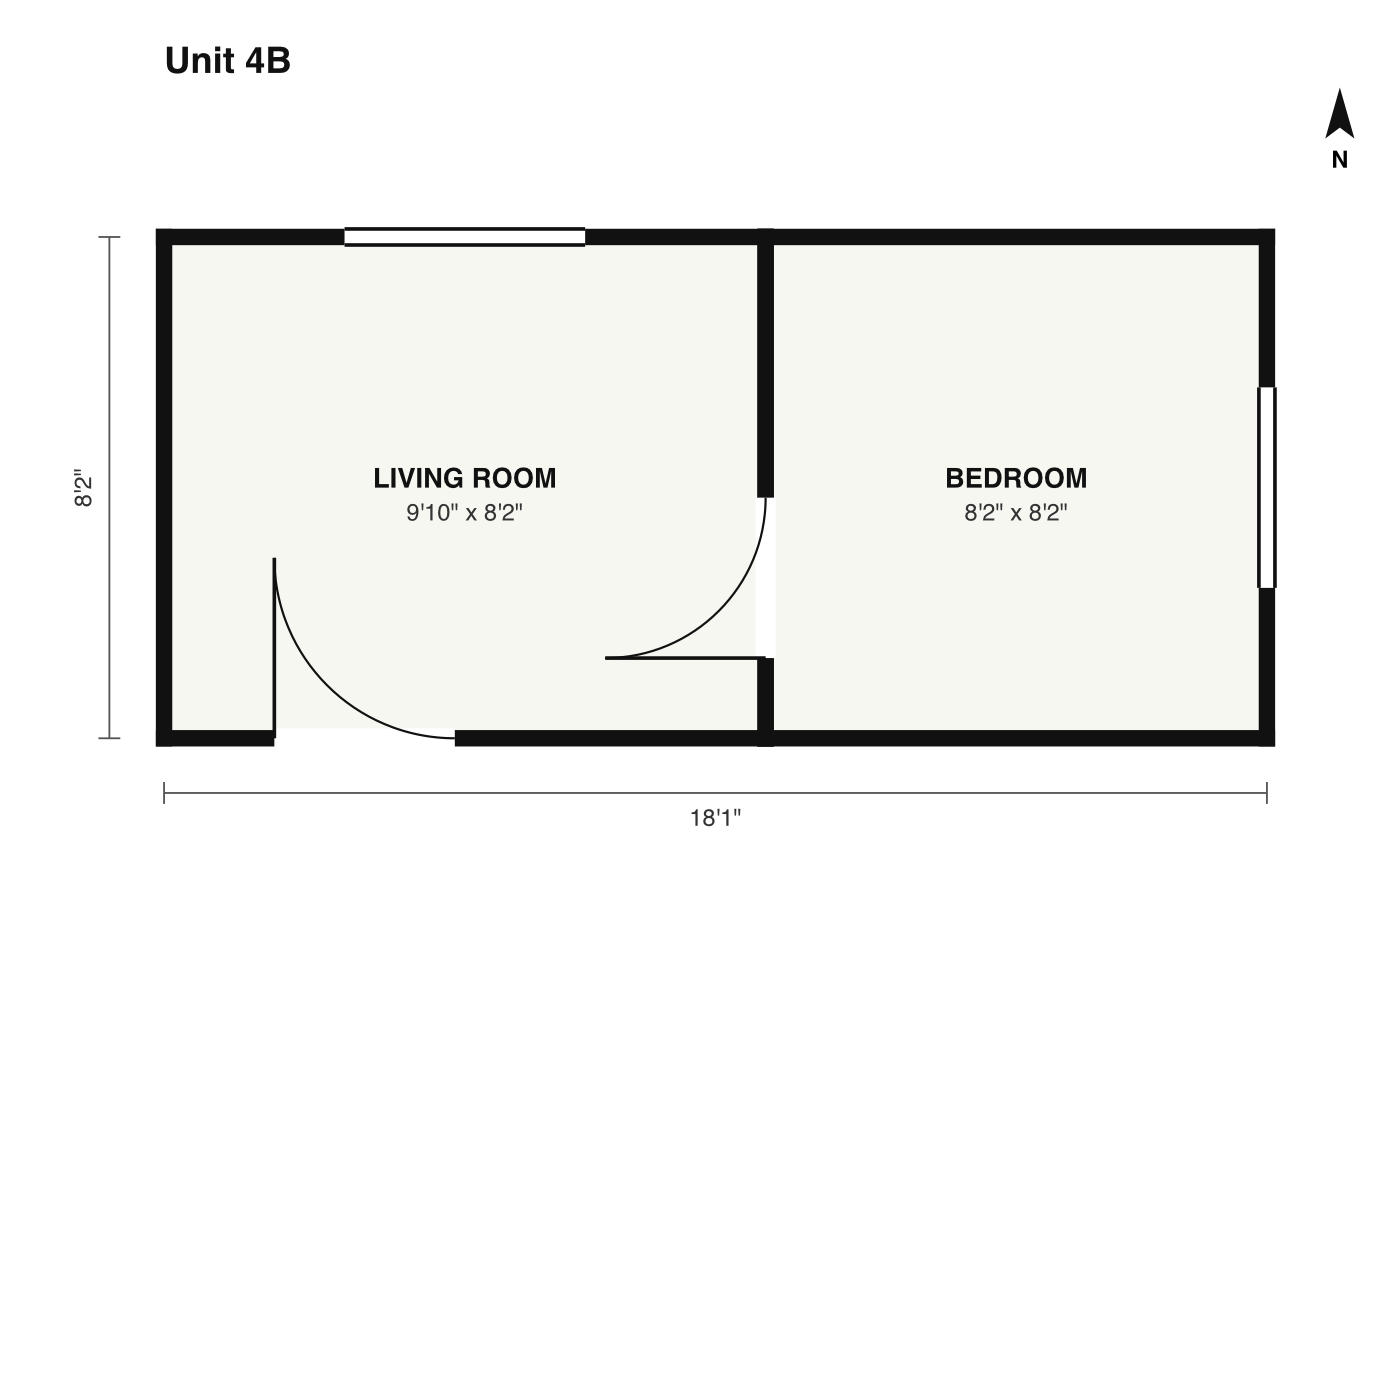
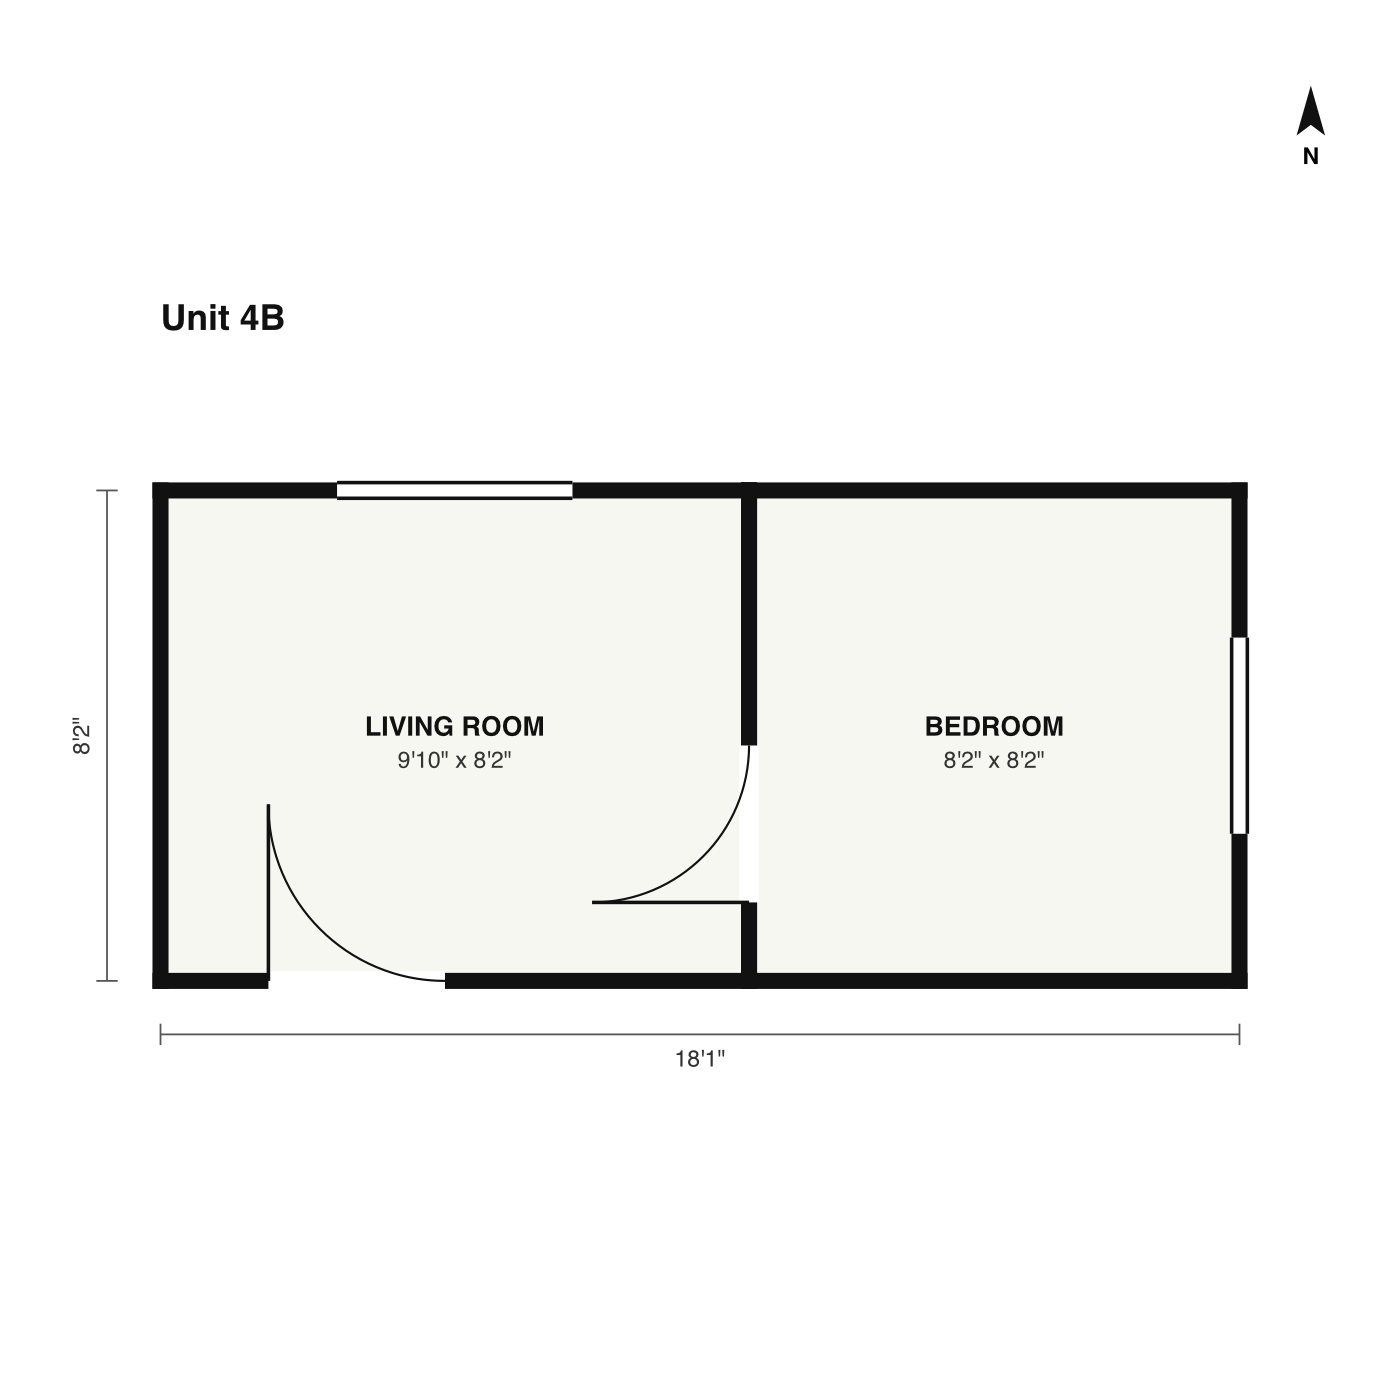
plan: square canvas so wide plans are not cropped; scale falls back to the longest label instead of NaN
Found by the first live Argon run on our plan images: rooms 7/7, doors and windows 13/13,
median dimension error 0.1-3.2% after the fix (3 clean drawings we made; not a benchmark).
Logged in eval/failures.md.

diff --git a/packages/plan/src/listing.ts b/packages/plan/src/listing.ts
@@ -10,20 +10,26 @@ export function feetInches(m: number): string {
   return `${Math.floor(totalIn / 12)}'${totalIn % 12}"`;
 }
 
-export function renderListingSvg(plan: FloorPlan, opts: { pxPerM?: number; title?: string } = {}): string {
+/** square: pad the canvas to a square so square thumbnailers (e.g. macOS Quick Look) do not crop wide plans. */
+export function renderListingSvg(plan: FloorPlan, opts: { pxPerM?: number; title?: string; square?: boolean } = {}): string {
   const k = opts.pxPerM ?? 110;
   const m = 90;
   const xs = plan.rooms.flatMap((r) => r.polygon.map((p) => p[0]));
   const ys = plan.rooms.flatMap((r) => r.polygon.map((p) => p[1]));
   const [minX, maxX, minY, maxY] = [Math.min(...xs), Math.max(...xs), Math.min(...ys), Math.max(...ys)];
-  const W = Math.round((maxX - minX) * k + 2 * m);
-  const H = Math.round((maxY - minY) * k + 2 * m + 40);
-  const X = (x: number) => m + (x - minX) * k;
-  const Y = (y: number) => m + 40 + (maxY - y) * k;
+  const W0 = Math.round((maxX - minX) * k + 2 * m);
+  const H0 = Math.round((maxY - minY) * k + 2 * m + 40);
+  const S = Math.max(W0, H0);
+  const W = opts.square ? S : W0;
+  const H = opts.square ? S : H0;
+  const padX = (W - W0) / 2;
+  const padY = (H - H0) / 2;
+  const X = (x: number) => padX + m + (x - minX) * k;
+  const Y = (y: number) => padY + m + 40 + (maxY - y) * k;
   const out: string[] = [];
   out.push(`<svg xmlns="http://www.w3.org/2000/svg" viewBox="0 0 ${W} ${H}" width="${W}" height="${H}" font-family="Helvetica, Arial, sans-serif">`);
   out.push(`<rect width="100%" height="100%" fill="#ffffff"/>`);
-  if (opts.title) out.push(`<text x="${m}" y="40" font-size="20" font-weight="bold" fill="#111">${esc(opts.title)}</text>`);
+  if (opts.title) out.push(`<text x="${padX + m}" y="${padY + 40}" font-size="20" font-weight="bold" fill="#111">${esc(opts.title)}</text>`);
 
   // Floors (light), then walls (thick black), then openings cut into the walls.
   for (const r of plan.rooms) {

diff --git a/packages/plan/src/parse.ts b/packages/plan/src/parse.ts
@@ -158,6 +158,16 @@ export function scaleFromLabels(
     };
     const m0 = median(ratios);
     const kept = ratios.filter((r) => Math.abs(r - m0) / m0 <= 0.15);
+    if (!kept.length) {
+      // Labels disagree with each other (e.g. two labels, far apart). Trust the longest one: it spans the
+      // most pixels, so a misplaced endpoint matters least. Say so.
+      const longest = labels
+        .filter((l) => l.meters && l.meters > 0)
+        .map((l) => ({ r: l.meters! / Math.hypot(l.b[0] - l.a[0], l.b[1] - l.a[1]), len: Math.hypot(l.b[0] - l.a[0], l.b[1] - l.a[1]) }))
+        .filter((x) => Number.isFinite(x.r) && x.r > 0)
+        .sort((a, b) => b.len - a.len)[0]!;
+      return { metersPerPixel: longest.r, scaleSource: 'labels', warnings: [`dimension labels disagree by >15%; scale taken from the longest label only`] };
+    }
     const warnings = kept.length < ratios.length ? [`${ratios.length - kept.length} dimension label(s) disagreed with the others by >15% and were ignored`] : [];
     return { metersPerPixel: median(kept), scaleSource: 'labels', warnings };
   }

diff --git a/packages/plan/test/parse.test.ts b/packages/plan/test/parse.test.ts
@@ -50,6 +50,11 @@ describe('scale', () => {
     expect(s.metersPerPixel).toBeCloseTo(0.01);
     expect(s.warnings.length).toBe(1);
   });
+  it('uses the longest label when two labels disagree (never NaN)', () => {
+    const s = scaleFromLabels([{ meters: 4, a: [0, 0], b: [400, 0] }, { meters: 9.6, a: [0, 0], b: [600, 0] }]);
+    expect(s.metersPerPixel).toBeCloseTo(0.016);
+    expect(s.warnings[0]).toMatch(/longest label/);
+  });
   it('falls back to an assumption with a warning', () => {
     const s = scaleFromLabels([]);
     expect(s.scaleSource).toBe('assumed');

diff --git a/packages/plan/src/build-plan-images.ts b/packages/plan/src/build-plan-images.ts
@@ -11,7 +11,7 @@ mkdirSync(out, { recursive: true });
 for (const name of listPlanFixtures()) {
   const plan = loadPlanFixture(name);
   const svgPath = join(out, `${name}.svg`);
-  writeFileSync(svgPath, renderListingSvg(plan, { title: name === 'demo-table' ? 'Unit 4B' : undefined }) + '\n');
+  writeFileSync(svgPath, renderListingSvg(plan, { title: name === 'demo-table' ? 'Unit 4B' : undefined, square: true }) + '\n');
   try {
     execFileSync('qlmanage', ['-t', '-s', '1400', '-o', out, svgPath], { stdio: 'ignore' });
     const ql = join(out, `${name}.svg.png`);

diff --git a/Elmir.md b/Elmir.md
@@ -6,6 +6,13 @@ Owns the workspace scaffold, shared contract, plan parser, fixtures, and evaluat
 
 - `import { uploadFile, gemini } from '@ledger/gemini'` (branch `rahim/r1-files-upload`, stacked on PR #14). `await uploadFile('data/pairs/<id>/baseline.mp4', 'video/mp4')` returns `{ uri, mime_type }` once the file is ACTIVE and usable. Your `runBaseline` takes `{ uri, mime }`, so pass `{ uri: f.uri, mime: f.mime_type }`, and pass `gemini` as the `BaselineModel`.
 - It handles videos over the 100 MB inline cap (Files API limit: 2 GB per file, 48 h lifetime). Re-running the eval within 47 h reuses the upload. `GEMINI_MODE=mock` returns a fake URI with no network. Uploads appear in `calls.jsonl` as `model: "files-api"`, `tag: "upload"` with 0 tokens, so `summarizeCalls` will show a `files-api` row. Filter it out if you only want model costs.
+## 2026-11-21 11:33 ET · First LIVE Gemini calls (event key in git-ignored `.env`)
+
+- Key works: Hydrogen 1.0 s, Neon (paid tier) 3.0 s, **Decisions API 0.5 s** with sensible answers. Billing is on.
+- **Argon on our 3 listing-style plan images** (same prompt as parsePlan, JSON schema enforced): rooms 7/7, doors+windows 13/13, median dimension error 0.1-3.2%, 8-10 s per plan. Scored with the repo's `planFromArgon` + `scorePlan`. Without a response schema Argon once returned malformed JSON, so R1's schema enforcement matters.
+- Two bugs found and fixed (see `eval/failures.md`): cropped PNG for wide plans (square canvas now), NaN scale when two labels disagree (longest label now).
+- These live calls were exploration from a throwaway script outside the repo; repo code still calls Gemini only through `packages/gemini` (plan-eval waits for R1).
+
 ## 2026-11-21 11:21 ET · E3 plan images + plan accuracy (branch `elmir/e3-plan-images`)
 
 - **PRs #7 and #9 are both in `main`** (Rahim merged #9 into the E2 branch, then #7 into main).

diff --git a/eval/failures.md b/eval/failures.md
@@ -1,3 +1,11 @@
 # Failures log
 
 One entry per failure: input, what broke, the fix, did it help (measured on dev).
+
+## 11:33 · plan parsing · one-bed-railroad (Elmir)
+- **Input:** listing-style image of a 3-room railroad plan (31'6" wide), Argon via the parsePlan prompt and schema.
+- **What broke:** Argon returned 2 of 3 rooms and 3 of 5 openings, and our scale came out NaN.
+- **Cause 1 (ours):** macOS Quick Look makes square thumbnails, so the PNG of the wide plan was cropped and the bedroom was not in the image at all. Argon read what it was given correctly.
+- **Cause 2 (ours):** with only two dimension labels that disagree by >15%, the outlier filter dropped both and took the median of nothing.
+- **Fix:** draw plans on a square canvas; when every label disagrees, use the longest label and warn.
+- **Did it help:** live re-run, all 3 plans: rooms 7/7, doors and windows 13/13, median room-dimension error 0.1-3.2%. Small set of clean drawings we made ourselves; not a benchmark.
